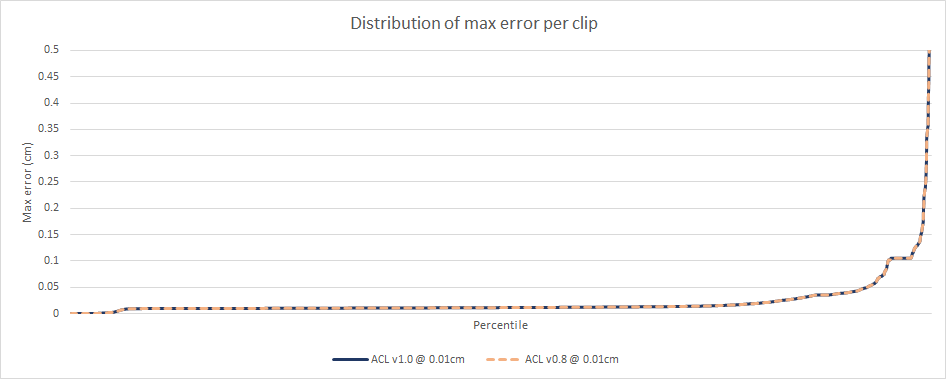
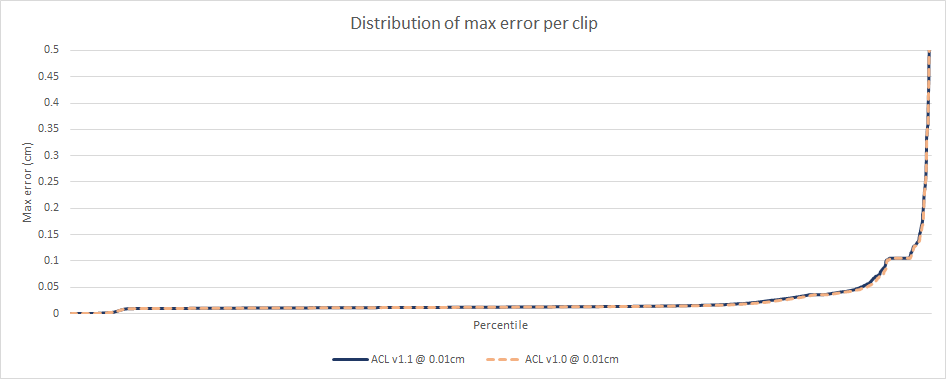
Updating Paragon stats and graphs.

diff --git a/docs/paragon_performance.md b/docs/paragon_performance.md
@@ -1,11 +1,14 @@
 # Paragon database performance
 
-|                       | v1.0.0        | v0.8.0        | v0.7.0        |
-| -------               | --------      | --------      | --------      |
-| **Compressed size**   | 206.57 MB     | 206.09 MB     | 205.58 MB     |
-| **Compression ratio** | 20.70 : 1     | 20.75 : 1     | 20.80 : 1     |
-| **Max error**         | 7.0159 cm     | 3.8615 cm     | 3.8615 cm     |
-| **Compression time**  | 7h 57m 41.72s | 7h 30m 46.44s | 9h 43m 41.08s |
+|                       | v1.1.0        | v1.0.0        | v0.8.0        |
+| --------------------- | ------------- | ------------- | ------------- |
+| **Compressed size**   | 206.65 MB     | 206.57 MB     | 206.09 MB     |
+| **Compression ratio** | 20.69 : 1     | 20.70 : 1     | 20.75 : 1     |
+| **Compression time**  | 7h 14m 54.53s | 7h 57m 41.72s | 7h 30m 46.44s |
+| **Compression speed**  | 167.80 KB/sec | 152.77 KB/sec | 161.90 KB/sec |
+| **Max error**         | 7.0175 cm     | 7.0159 cm     | 3.8615 cm     |
+| **Error 99<sup>th</sup> percentile** | 0.0116 cm | 0.0116 cm | 0.0113 cm |
+| **Samples below error threshold** | 98.81 % | 98.81 % | 98.83 % |
 
 Notes:
 
@@ -19,7 +22,7 @@ To compile these statistics, a large number of animations from [Paragon](https:/
 In *October 2017* the animations were manually extracted and converted to the [ACL file format](the_acl_file_format.md) losslessly. The data is sadly **NOT** available upon request.
 Epic has permitted [Nicholas Frechette](https://github.com/nfrechette) to use them for research purposes only under a non-disclosure agreement.
 
-**Note: Epic has since released Paragon assets publicly in early 2018, once I get around to it, it will be extracted and made available along with updated stats.**
+**Note: Epic has since released Paragon assets publicly in early 2018, once I get around to it, it will be extracted along with updated stats.**
 
 *  Number of clips: **6558**
 *  Total duration: **07h 00m 45.27s**
@@ -37,7 +40,7 @@ The data set contains among other things:
 
 ACL supports various compression methods but only the overall best variant will be tracked here (see `get_default_compression_settings()` for details).
 
-The error is measured **3cm** away from each bone to simulate the visual mesh skinning process as described [here](error_metrics.md).
+The error is measured **3cm** away from each bone to simulate the visual mesh skinning process as described [here](error_metrics.md) with the default error threshold of **0.01cm**. The **99th** percentile and the number of samples below the error threshold are calculated by measuring the error on every bone at every sample.
 
 The performance of ACL in Unreal Engine 4 is tracked by the plugin [here](https://github.com/nfrechette/acl-ue4-plugin/blob/develop/Docs/paragon_performance.md).
 
